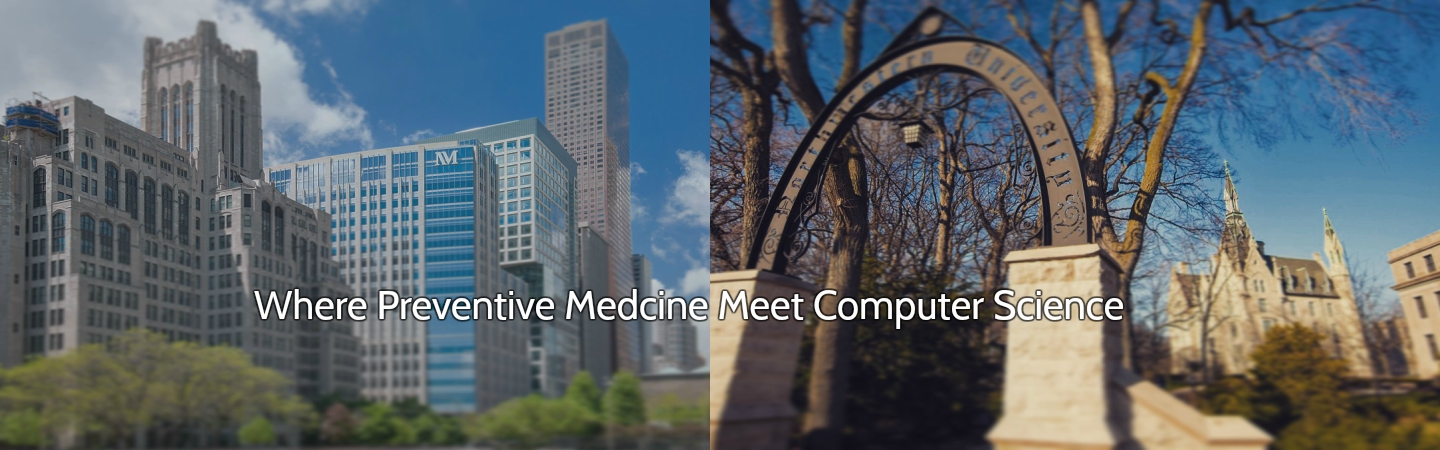
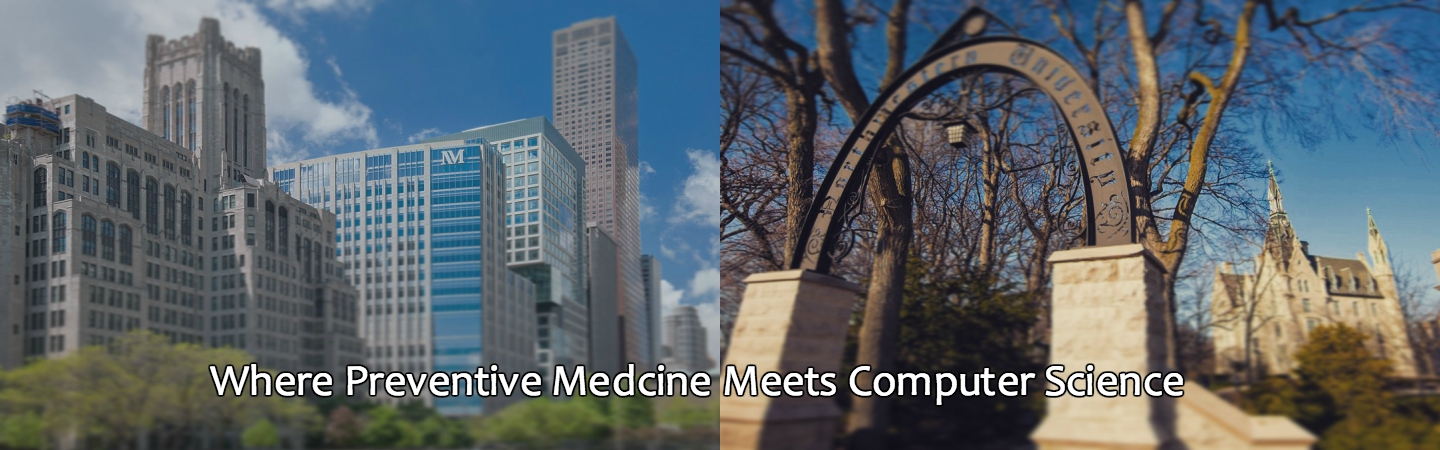
change quote, hero image, and remove research pics

diff --git a/research.html b/research.html
@@ -122,9 +122,9 @@
                             <div class="col-md-8 pad-25">
                                 <div class="post-wrapper">
                                     <article class="post">
-                                        <div class="post-thumb">
+                                        <!-- <div class="post-thumb">
                                             <img src="assets/img/blog/1.jpg" class="img-responsive" alt="Responsive image">
-                                        </div>
+                                        </div> -->
                                         <!-- /.post-thumb -->
                                         <div class="post-details">
                                             <h4 class="post-title">Passive Sensing Data Analytics</h4>
@@ -236,9 +236,9 @@
                             <div class="col-md-8 pad-25">
                               <div class="post-wrapper">
                                   <article class="post">
-                                      <div class="post-thumb">
+                                      <!-- <div class="post-thumb">
                                           <img src="assets/img/blog/2.jpg" class="img-responsive" alt="Responsive image">
-                                      </div>
+                                      </div> -->
                                       <!-- /.post-thumb -->
                                       <div class="post-details">
                                           <h4 class="post-title">Clustering Overeating in Obesity</h4>
@@ -273,9 +273,9 @@
                             <div class="col-md-8 pad-25">
                               <div class="post-wrapper">
                                   <article class="post">
-                                      <div class="post-thumb">
+                                      <!-- <div class="post-thumb">
                                           <img src="assets/img/blog/3.jpg" class="img-responsive" alt="Responsive image">
-                                      </div>
+                                      </div> -->
                                       <!-- /.post-thumb -->
                                       <div class="post-details">
                                           <h4 class="post-title">Sensors and Systems</h4>
@@ -385,9 +385,9 @@
                             <div class="col-md-8 pad-25">
                               <div class="post-wrapper">
                                   <article class="post">
-                                      <div class="post-thumb">
+                                      <!-- <div class="post-thumb">
                                           <img src="assets/img/blog/4.jpg" class="img-responsive" alt="Responsive image">
-                                      </div>
+                                      </div> -->
                                       <!-- /.post-thumb -->
                                       <div class="post-details">
                                           <h4 class="post-title">Overeating Through The Virtual Lens of Passive Sensing</h4>

diff --git a/index.html b/index.html
@@ -394,7 +394,7 @@
                                     </div>
                                     <div class="testimonial">
                                         <div class="testimonial-content">
-                                            <p>Humans are creatures of habits, a routine pattern of unconscious behaviors. Those habits can destroy or improve someone’s life. Recognition of patterns within massive data is an area where computers surpass humans in. I want to use the power of machine learning and human computer interaction to help people understand their habits and improve their lives, that is why I joined the HAbits lab.</p>
+                                            <p>Humans are creatures of habit, a routine pattern of unconscious behavior. Some habits destroy, others improve one’s quality of life. Recognizing patterns of behavior given massive amounts of data is an area that computers surpass humans. I want to use the power of machine learning and human computer interaction to help people understand their health habits and ultimately improve the quality of their life. This is why I joined the HAbits lab.</p>
                                         </div>
                                         <div class="testimonial-author">
                                             <img class="user-thumb" src="assets/img/users/2.jpg" alt="User Thumb">
